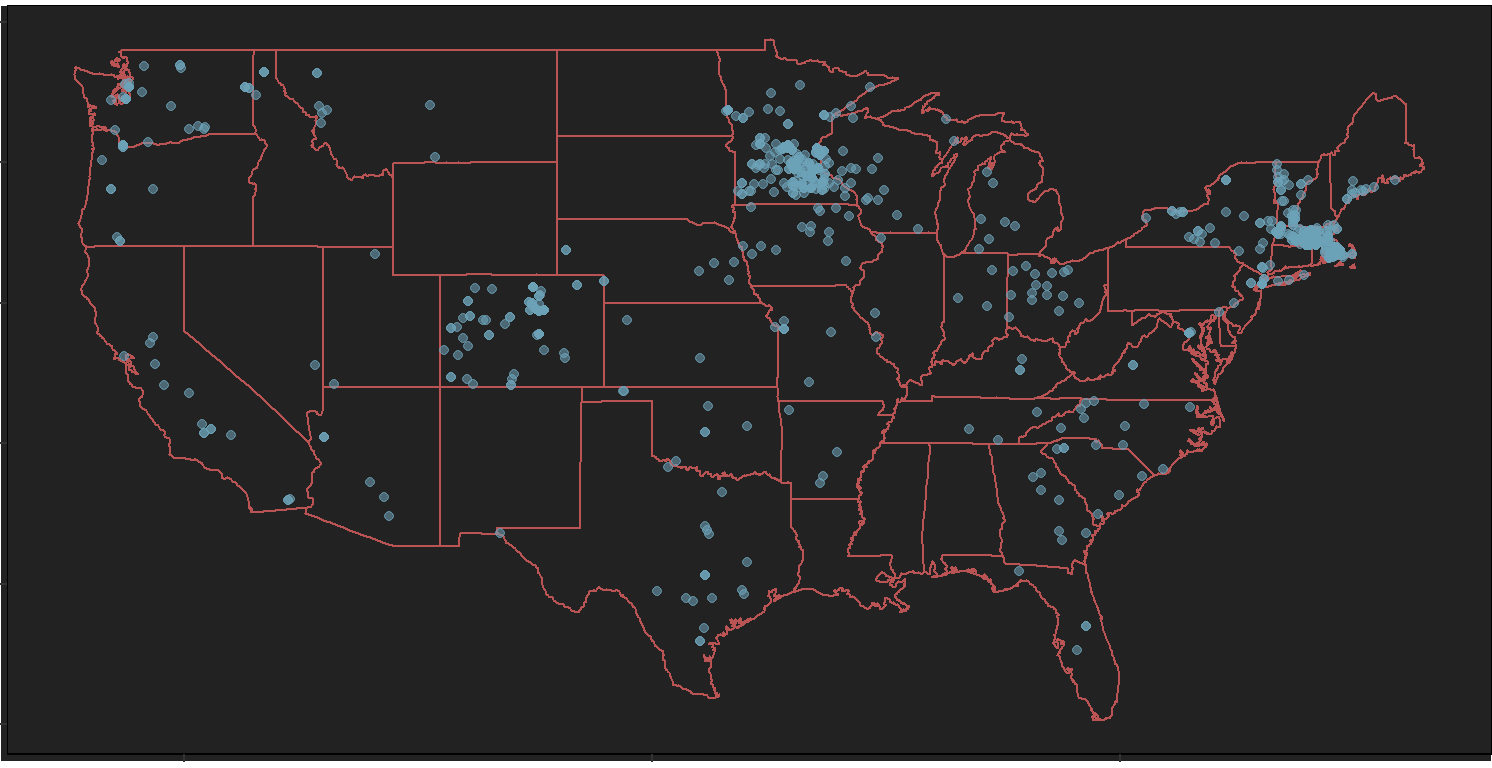
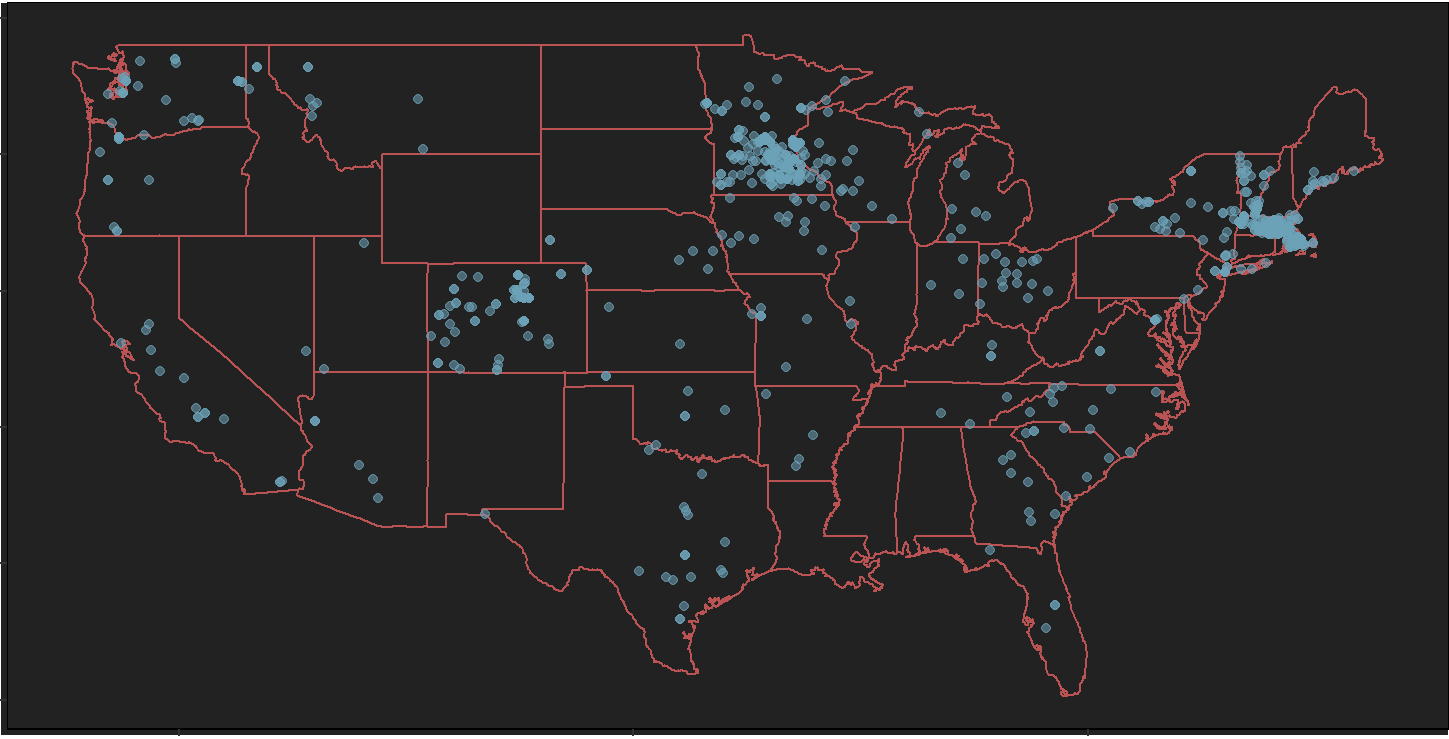
Commit

diff --git a/docs/index.html b/docs/index.html
@@ -454,7 +454,7 @@ DSIRE_technology &lt;- read_csv(&quot;https://raw.githubusercontent.com/geo511-2
 DSIRE_technology_category &lt;- read_csv(&quot;https://raw.githubusercontent.com/geo511-2019/2019-geo511-project-austin3087/master/technology_category.csv&quot;)</code></pre>
 <ol start="4" style="list-style-type: decimal">
 <li>Join the DSIRE datasets<br />
-<br> <img src="docs/Data_Structure.PNG" alt="Data Structure Representation" /> <br> (<a href="https://github.com/geo511-2019/2019-geo511-project-austin3087/blob/master/docs/Data_Structure.PNG" class="uri">https://github.com/geo511-2019/2019-geo511-project-austin3087/blob/master/docs/Data_Structure.PNG</a>)</li>
+<br> <img src="docs/Data_Structure.PNG" alt="Data Structure Representation" /></li>
 </ol>
 <pre class="r"><code>#Join the DSIRE datasets by their relevant keys creating one &quot;Final&quot; table with relevant information. See data relationship chart above to identify how tables are related. 
 DSIRE_program2 &lt;- inner_join(DSIRE_program,DSIRE_state, by = &quot;state_id&quot;)%&gt;%
@@ -489,7 +489,9 @@ kwh_mean_state$State &lt;- tolower(kwh_mean_state$State)</code></pre>
 <pre class="r"><code>#Create Custom theme 
 theme_black_nol&lt;- theme(plot.background = element_rect(fill = &#39;#222222&#39;), panel.background = element_rect(fill = NA),panel.border = element_rect(fill = NA), panel.grid = element_line(color = NA), axis.title = element_blank(), legend.position = &quot;none&quot;, plot.margin = unit(c(0,0,0,0),&quot;cm&quot;), axis.text = element_blank(), axis.line = element_blank())
 
-theme_black&lt;- theme(plot.background = element_rect(fill = &#39;#222222&#39;), panel.background = element_rect(fill = NA),panel.border = element_rect(fill = NA), panel.grid = element_line(color = NA), axis.title = element_blank(), plot.margin = unit(c(0,0,0,0),&quot;cm&quot;), axis.text = element_blank(), axis.line = element_blank())</code></pre>
+theme_black&lt;- theme(plot.background = element_rect(fill = &#39;#222222&#39;), panel.background = element_rect(fill = NA),panel.border = element_rect(fill = NA), panel.grid = element_line(color = NA), axis.title = element_blank(), plot.margin = unit(c(0,0,0,0),&quot;cm&quot;), axis.text = element_blank(), axis.line = element_blank())
+
+theme_black_blank&lt;- theme(plot.background = element_rect(fill = element_blank()), panel.background = element_rect(fill = element_blank()),panel.border = element_rect(fill = element_blank()), panel.grid = element_line(color = element_blank()), axis.title = element_blank(), plot.margin = unit(c(0,0,0,0),&quot;cm&quot;), axis.text = element_blank(), axis.line = element_blank(), legend.position = &quot;none&quot;)</code></pre>
 <ol start="7" style="list-style-type: decimal">
 <li>Create spatial distribution plot to identify locations of projects</li>
 </ol>
@@ -527,7 +529,7 @@ plot3 &lt;- ggplot()+
 </div>
 <div id="results" class="section level1">
 <h1>Results</h1>
-<p>Spatial Distibution of Community Solar Installations - Provided by NREL <img src="index_files/figure-html/unnamed-chunk-9-1.png" width="746.4" /> <br><br> Spatial Distibution of Community Solar Installations w/ Incentives shaded per $ - Provided by NREL &amp; DSIRE data <img src="index_files/figure-html/unnamed-chunk-10-1.png" width="746.4" /> <br><br></p>
+<p>Spatial Distibution of Community Solar Installations - Provided by NREL <img src="index_files/figure-html/unnamed-chunk-9-1.png" width="724.8" /> <br><br> Spatial Distibution of Community Solar Installations w/ Incentives shaded per $ - Provided by NREL &amp; DSIRE data <img src="index_files/figure-html/unnamed-chunk-10-1.png" width="746.4" /> <br><br></p>
 <p>Spatial Distibution of Community Solar Installations w/ Incentives shaded per quantity - Provided by NREL &amp; DSIRE data <img src="index_files/figure-html/unnamed-chunk-11-1.png" width="746.4" /></p>
 <hr />
 </div>
